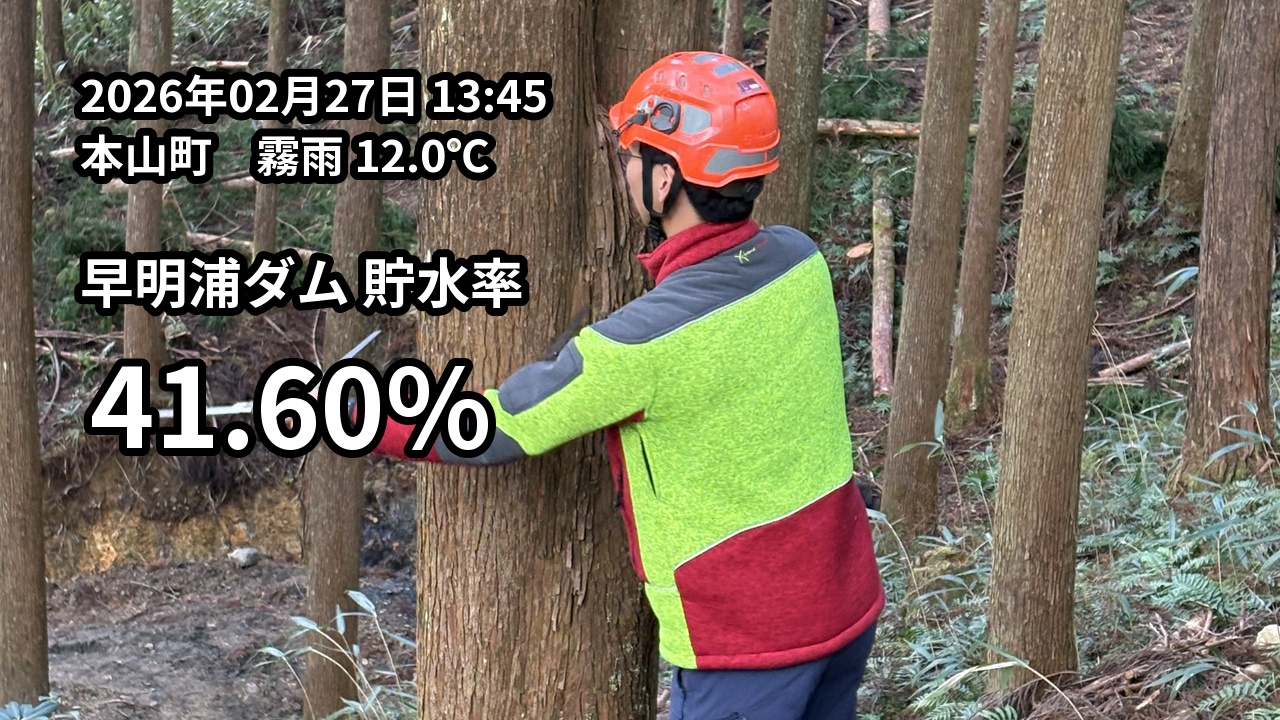
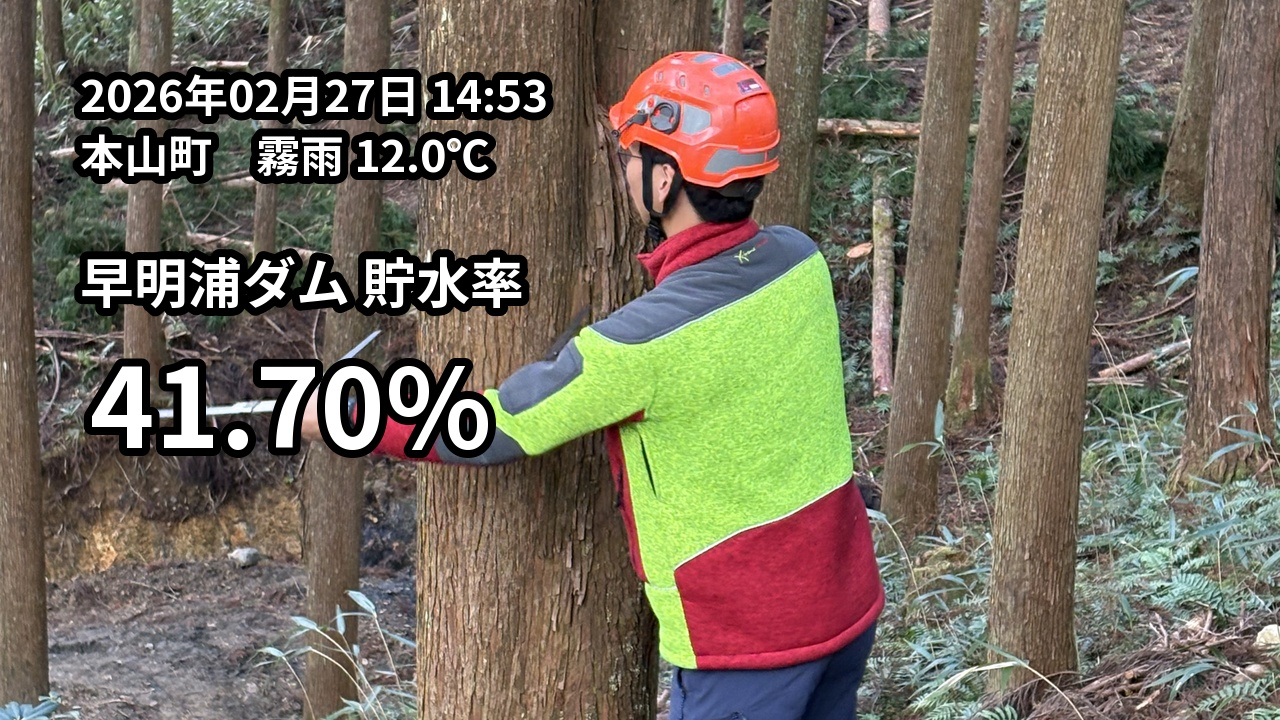
Update daily image

Changed region(s): [[0.1875, 0.4889, 0.25, 0.6417], [0.3438, 0.0917, 0.4375, 0.1833]]

diff --git a/index.html b/index.html
@@ -10,6 +10,6 @@
   </style>
 </head>
 <body>
-  <img src="result.jpg?v=202602271345" alt="早明浦ダム 貯水率" />
+  <img src="result.jpg?v=202602271453" alt="早明浦ダム 貯水率" />
 </body>
 </html>
